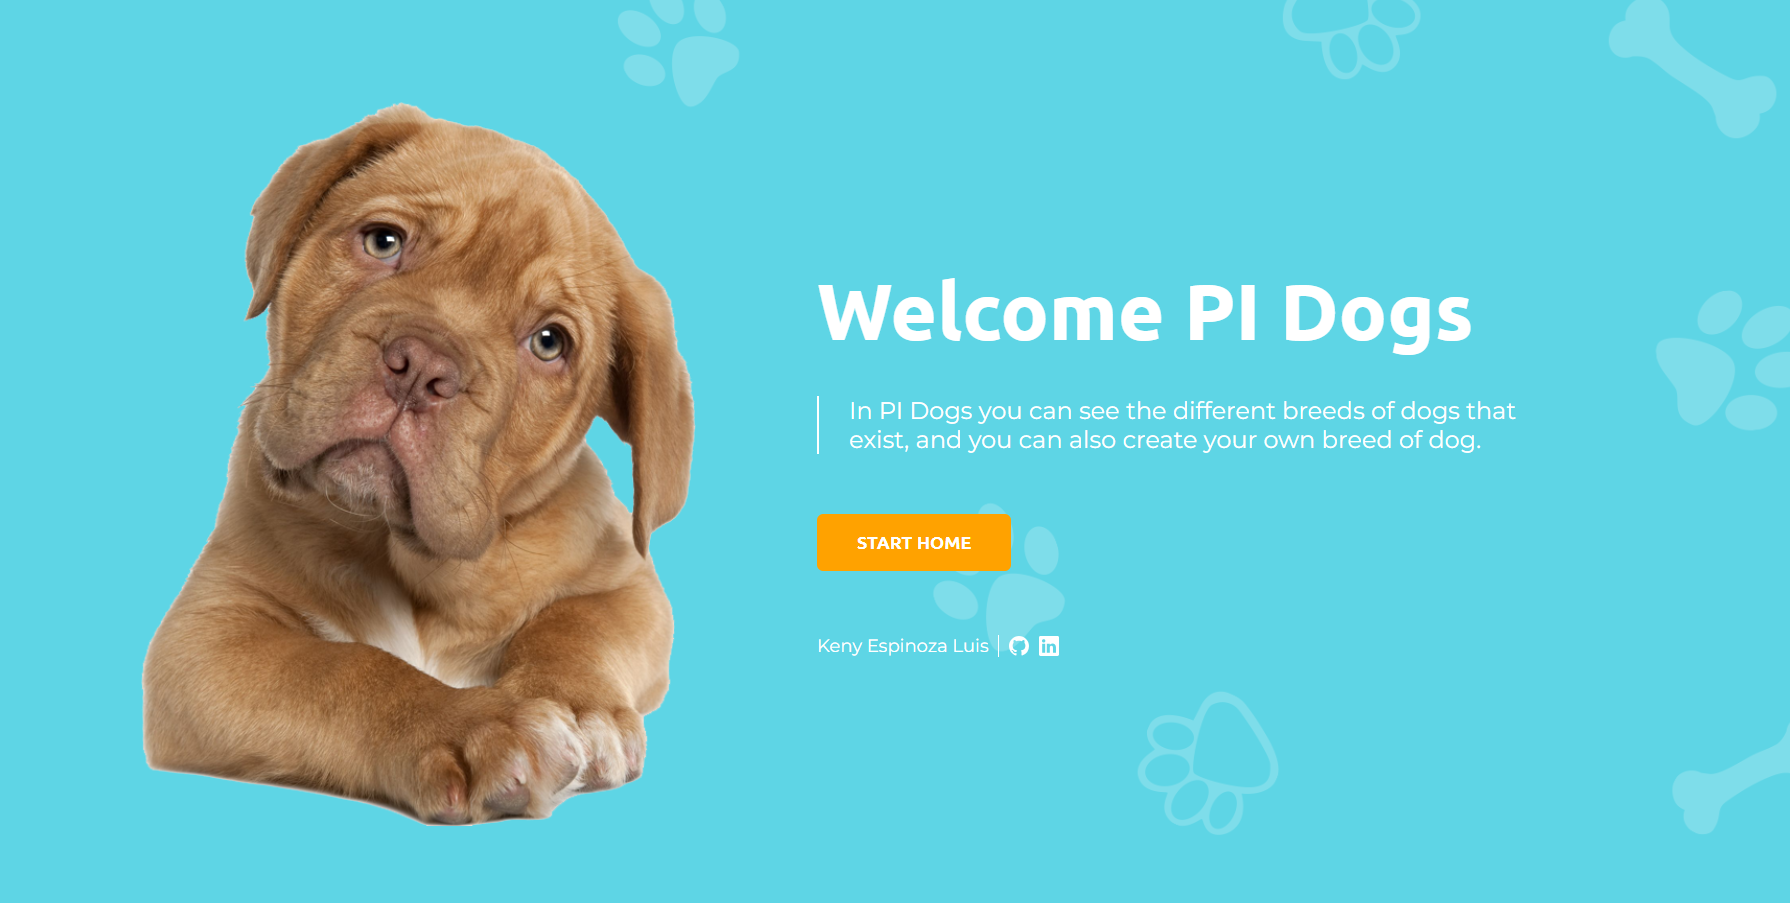
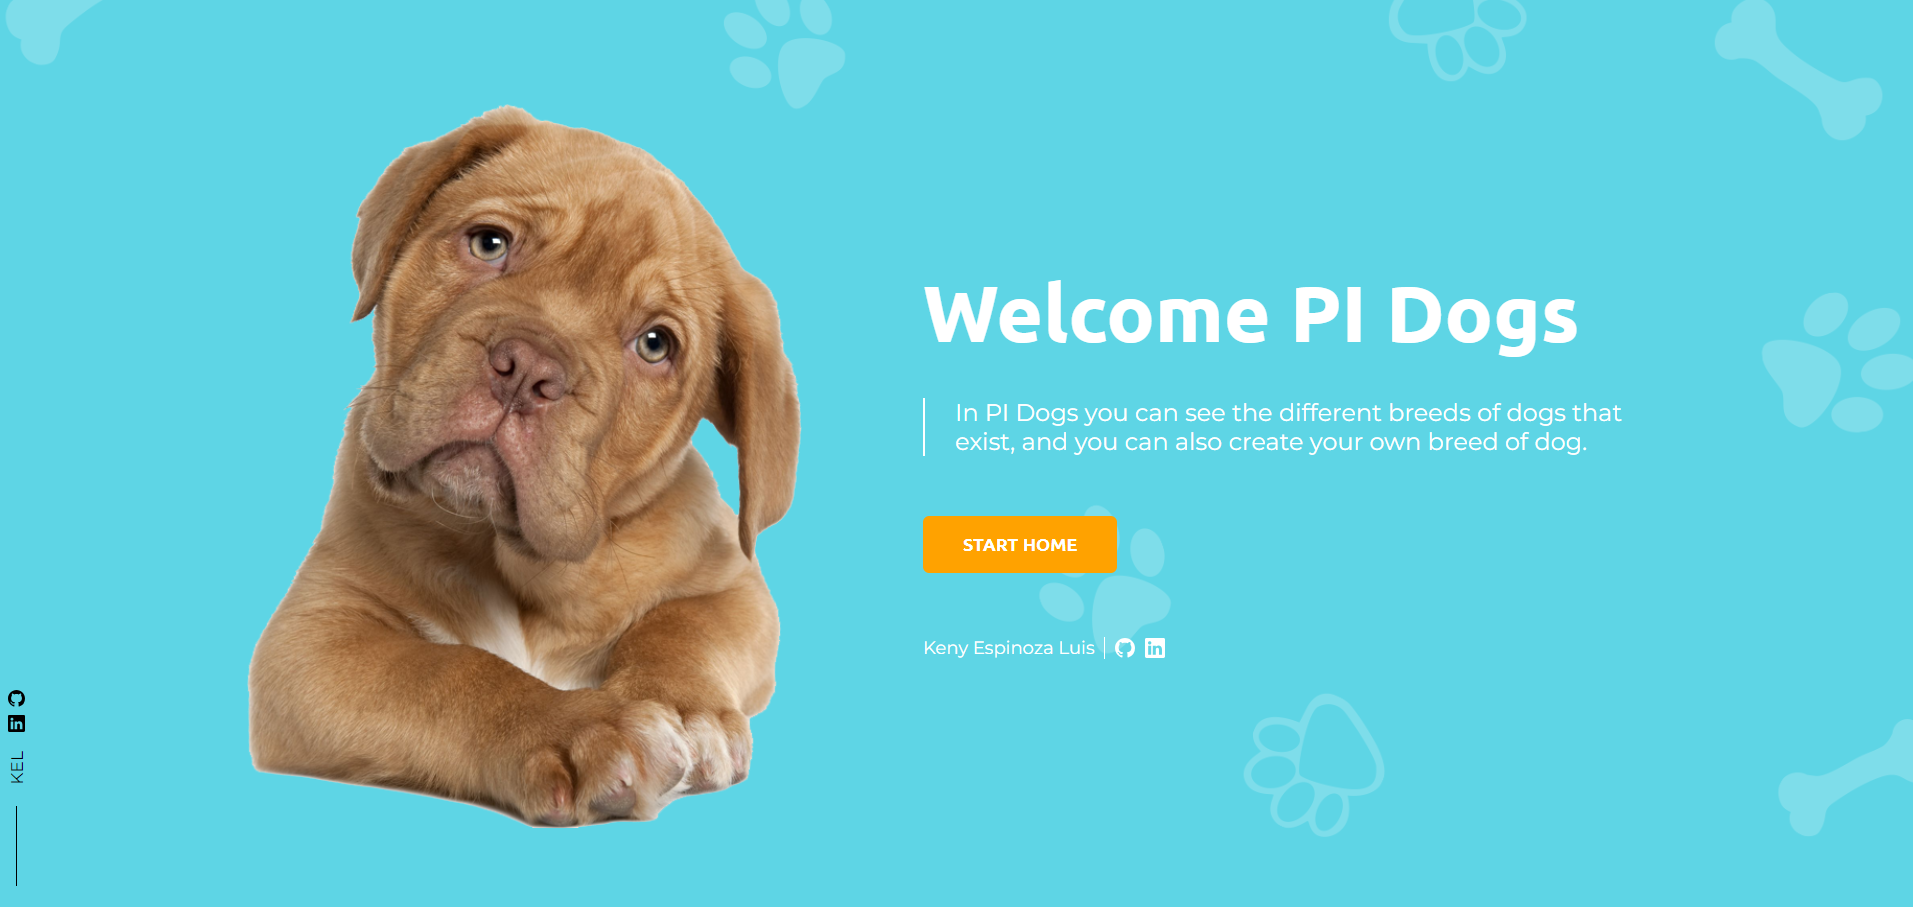
portfolio v2

diff --git a/client/src/views/About.jsx b/client/src/views/About.jsx
@@ -1,17 +1,19 @@
 import { BsArrowDown } from "react-icons/bs";
-import Button from "../components/Button";
 import { skills } from "../utils/data";
 
 const About = () => {
     return(
         <section className="wrapper about section" id="about">
             <div className="containerImg">
-                <img src="./img/avatar.svg" alt="foto perfil" />
+                <img src="./img/photo-about.png" alt="foto perfil" />
             </div>
             <div className="containerInfo">
                 <h1 className="title">Sobre mí</h1>
                 <p className="description"> Front end developer con una fuerte pasión por la creación de experiencias de usuario asombrosas, donde combino la creatividad del diseño con la lógica del código para dar vida a sitios web y aplicaciones atractivas. <br />Mi objetivo es contribuir a la creación de experiencias que no solo funcionen bien, sino que también sorprendan y deleiten a los usuarios.</p>
-                <Button label="Descargar CV" icon={<BsArrowDown/>}/>
+                <a className="btn btnPrimary" href="https://drive.google.com/file/d/1hW30r_hgVrJyD3Va6m1yfMj2qIQRS44N/view?usp=drive_link" download="CV-KenyEspinoza">
+                    Descargar CV
+                    <span className="icon"><BsArrowDown /></span>
+                </a>
                 <div className="containerSkills">
                     <h2 className="titleSkill">Habilidades</h2>
                     <ul className="skills">

diff --git a/client/src/styles/views/_banner.scss b/client/src/styles/views/_banner.scss
@@ -9,7 +9,13 @@
 }
 
 .role{
+    display: block;
     font-size: 1.2rem;
+    border-right: 3px solid;
+    width: 18ch;
+    white-space: nowrap;
+    animation: typing 2s steps(18), blink .5s infinite step-end alternate;
+    overflow: hidden;
 }
 
 .textProject{
@@ -41,5 +47,17 @@
     }
     .role{
         font-size: 2rem;
+    }
+}
+
+@keyframes typing {
+    0%{
+        width: 0;
+    }
+}
+
+@keyframes blink{
+    50%{
+        border-color: transparent;
     }
 }

diff --git a/client/index.html b/client/index.html
@@ -2,7 +2,7 @@
 <html lang="en">
   <head>
     <meta charset="UTF-8" />
-    <link rel="icon" type="image/svg+xml" href="/vite.svg" />
+    <link rel="icon" type="image/svg+xml" href="/img/logo.png" />
     <meta name="viewport" content="width=device-width, initial-scale=1.0" />
     <title>Portfolio KEL</title>
     <link href="https://fonts.googleapis.com/css2?family=Open+Sans:wght@300;400;500;600;700&family=Roboto:wght@300;500;700&display=swap" rel="stylesheet">

diff --git a/client/src/views/Banner.jsx b/client/src/views/Banner.jsx
@@ -11,7 +11,7 @@ const Banner = () => {
     return (
         <section className="wrapper banner section" id="banner">
             <div className="containerImg">
-                <img src="./img/avatar.svg" alt="foto perfil" />
+                <img src="./img/photo.png" alt="foto perfil" />
             </div>
             <div className="containerInfo">
                 <div className="content info">

diff --git a/client/src/utils/data.jsx b/client/src/utils/data.jsx
@@ -67,7 +67,7 @@ export const projects = [
         id: 2,
         name: "PI Dogs",
         img: './projects/PIDogs.png',
-        demo: '',
+        demo: 'https://pi-dogs-kel.vercel.app/',
         repository: 'https://github.com/KEspinozaLuis/PI_Dogs'
     },
     {

diff --git a/client/src/styles/base/_base.scss b/client/src/styles/base/_base.scss
@@ -45,7 +45,7 @@
     
     .containerImg img{
         max-width: 100%;
-        width: 75%;
+        width: 20rem;
     }
 }
 
